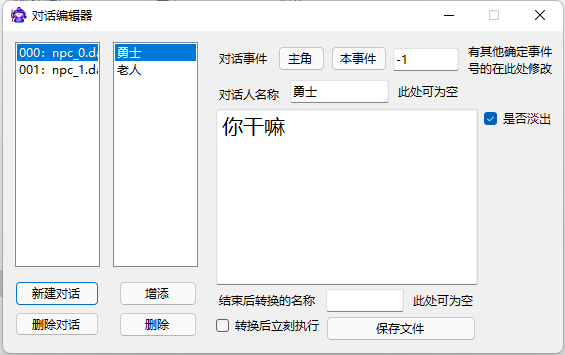
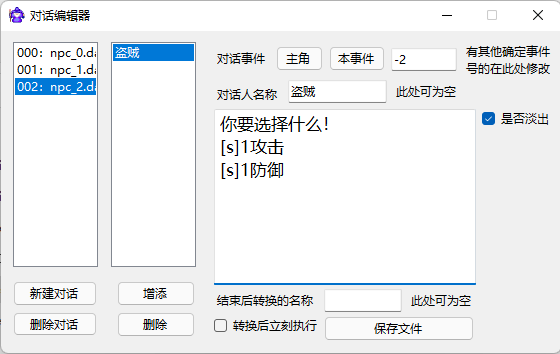
update

diff --git a/docs/source/tool&data/tools.rst b/docs/source/tool&data/tools.rst
@@ -8,21 +8,16 @@
 可视化地图编辑器MapDesigner.exe
 ~~~~~~~~~~~~~~~~~~~~~~~~~~~~~~
 
-.. image:: sample_3.png
+.. image:: sample_1.png
    :align: center
    :alt: 可视化地图编辑器MapDesigner.exe
 
 这里可以对游戏地图进行绘制。
 
-如何创建新地图
--------------
-
-在 ``data\map\`` 处可以看到一个叫做 ``blankmap.dat`` 的文件，这就是空白地图，复制粘贴之后将文件名改为 ``map_x.dat`` 即可，需要注意所有的 ``map_x.dat`` 的 ``x`` 必须连贯且从0开始，否则地图编辑器将无法识别中断处之后的地图。
-
 事件名称介绍
 -----------
 
-.. image:: sample_4.png
+.. image:: sample_2.png
    :align: center
    :alt: 事件名称介绍
 
@@ -107,20 +102,20 @@ NPC的命名方式为 ``npc/x`` ，会自动寻找数据库里的npc数据完成
 行走图
 ------
 
-.. image:: sample_5.png
+.. image:: sample_3.png
    :align: center
    :alt: 行走图
 
 这里决定了事件的行走图以及在行走图上对应的位置，行走图素材严格按照128*128的标准，在区域内按下鼠标右键可以选择图片，按下鼠标左键可以选择位置。
 
-.. image:: sample_6.png
+.. image:: sample_4.png
    :align: center
    :alt: 选择图片
 
 出现触发判定
 -----------
 
-.. image:: sample_7.png
+.. image:: sample_5.png
    :align: center
    :alt: 出现触发判定
 
@@ -146,7 +141,7 @@ NPC的命名方式为 ``npc/x`` ，会自动寻找数据库里的npc数据完成
 地图名
 ^^^^^^
 
-.. image:: sample_8.png
+.. image:: sample_6.png
    :align: center
    :alt: 地图名
 
@@ -157,7 +152,7 @@ NPC的命名方式为 ``npc/x`` ，会自动寻找数据库里的npc数据完成
 地图BGM
 ^^^^^^^
 
-.. image:: sample_9.png
+.. image:: sample_7.png
    :align: center
    :alt: 地图BGM
 
@@ -166,7 +161,7 @@ NPC的命名方式为 ``npc/x`` ，会自动寻找数据库里的npc数据完成
 动效
 ^^^^
 
-.. image:: sample_10.gif
+.. image:: sample_8.gif
    :align: center
    :alt: 动效
 
@@ -175,7 +170,7 @@ NPC的命名方式为 ``npc/x`` ，会自动寻找数据库里的npc数据完成
 穿透
 ^^^^
 
-.. image:: sample_11.png
+.. image:: sample_9.png
    :align: center
    :alt: 穿透
 
@@ -184,7 +179,7 @@ NPC的命名方式为 ``npc/x`` ，会自动寻找数据库里的npc数据完成
 隐藏信息
 ^^^^^^^^
 
-.. image:: sample_12.gif
+.. image:: sample_10.gif
    :align: center
    :alt: 隐藏信息
 
@@ -193,7 +188,7 @@ NPC的命名方式为 ``npc/x`` ，会自动寻找数据库里的npc数据完成
 匹配图像
 ^^^^^^^
 
-.. image:: sample_13.gif
+.. image:: sample_11.gif
    :align: center
    :alt: 匹配图像
 
@@ -205,7 +200,7 @@ NPC的命名方式为 ``npc/x`` ，会自动寻找数据库里的npc数据完成
 添加
 ^^^^
 
-.. image:: sample_14.gif
+.. image:: sample_12.gif
    :align: center
    :alt: 添加
 
@@ -214,7 +209,7 @@ NPC的命名方式为 ``npc/x`` ，会自动寻找数据库里的npc数据完成
 复制
 ^^^^
 
-.. image:: sample_15.gif
+.. image:: sample_13.gif
    :align: center
    :alt: 复制
 
@@ -223,7 +218,7 @@ NPC的命名方式为 ``npc/x`` ，会自动寻找数据库里的npc数据完成
 删除
 ^^^^
 
-.. image:: sample_16.gif
+.. image:: sample_14.gif
    :align: center
    :alt: 删除
 
@@ -232,7 +227,7 @@ NPC的命名方式为 ``npc/x`` ，会自动寻找数据库里的npc数据完成
 移动
 ^^^^
 
-.. image:: sample_17.gif
+.. image:: sample_15.gif
    :align: center
    :alt: 移动
 
@@ -241,7 +236,7 @@ NPC的命名方式为 ``npc/x`` ，会自动寻找数据库里的npc数据完成
 覆盖
 ^^^^
 
-.. image:: sample_18.gif
+.. image:: sample_16.gif
    :align: center
    :alt: 覆盖
 
@@ -250,18 +245,37 @@ NPC的命名方式为 ``npc/x`` ，会自动寻找数据库里的npc数据完成
 保存
 ^^^^
 
-.. image:: sample_19.png
+.. image:: sample_17.png
    :align: center
    :alt: 保存
 
 会保存当前页面的地图，保存成功后会弹出一个窗口，是本地图所有信息的一个列表。
+
+新增地图 & 设为空白地图
+^^^^^^^^^^^^^^^^^^^^^^
+
+最新一期新增内容
+
+.. image:: sample_18.png
+   :align: center
+   :alt: 新增地图&设为空白地图
+
+新增地图
+""""""""
+
+会在列表中新增一个地图，默认按照当前的空白地图模板 ``blankmap.dat`` 进行初始化。
+
+设为空白地图
+"""""""""""""
+
+会将当前地图的信息整合起来存入 ``blankmap.dat`` 。
 
 动画编辑器AnimationDesigner.exe
 ~~~~~~~~~~~~~~~~~~~~~~~~~~~~~~~
 
 这里可以对游戏动画进行绘制，支持的动画 **单个图片** 规格的动画素材（需要是透明底图）。
 
-.. image:: sample_20.png
+.. image:: sample_19.png
    :align: center
    :alt: 保存
 
@@ -272,7 +286,7 @@ RMXP动画素材分离器AnimationSeparator.exe
 
 这里可以对RMXP规格的动画素材分离成若干192 * 192的素材，并保存在原路径中。
 
-.. image:: sample_21.png
+.. image:: sample_20.png
    :align: center
    :alt: 保存
 
@@ -285,7 +299,7 @@ NPC对话编辑器NPCDesigner.exe
 
 这里可以对游戏内NPC的对话内容进行设置。
 
-.. image:: sample_22.png
+.. image:: sample_21.png
    :align: center
    :alt: 保存
 
@@ -298,6 +312,10 @@ NPC对话编辑器NPCDesigner.exe
 ^^^^^^^^^^^^^^^
 
 选择项单起一行，在最前面加上 ``[s]`` ，代码就会识别出来这是选择项了，并且会出现光标矩形。
+
+.. image:: sample_22.png
+   :align: center
+   :alt: 添加选择项
 
 例如：
 
@@ -313,6 +331,10 @@ NPC对话编辑器NPCDesigner.exe
 
 本框架所有事件指令均依托于事件名，在选择项内容描述完之后加上 ``=>`` ，然后写上需要执行的事件名，之后就会创建一个“临时事件”并执行相关指令。
 
+.. image:: sample_23.png
+   :align: center
+   :alt: 选择项指令
+
 例如：
 
 .. code-block:: cpp
@@ -321,6 +343,13 @@ NPC对话编辑器NPCDesigner.exe
     你好，你要选择什么？
     [s]1攻击=>bonus/1/2
     [s]1防御=>bonus/2/2
+
+
+演示效果如下：
+
+.. image:: sample_24.png
+   :align: center
+   :alt: 演示
 
 何谓全角字符和半角字符？
 ^^^^^^^^^^^^^^^^^^^^^^
@@ -347,13 +376,13 @@ NPC对话编辑器NPCDesigner.exe
 
 在对话中插入 ``x`` 号变量的方法为写成 ``[x]`` ，代码会自动识别半角方括号里的内容，并读取当前变量的值进行替换。
 
-.. image:: sample_23.png
+.. image:: sample_24.png
    :align: center
    :alt: 插入变量
 
 效果演示如下：
 
-.. image:: sample_24.png
+.. image:: sample_25.png
    :align: center
    :alt: 插入变量演示
 
@@ -362,7 +391,7 @@ NPC对话编辑器NPCDesigner.exe
 
 这里可以对游戏内怪物的能力以及属性进行设置。
 
-.. image:: sample_25.png
+.. image:: sample_26.png
    :align: center
    :alt: 怪物编辑器
 

diff --git a/docs/source/inner/data_structures.rst b/docs/source/inner/data_structures.rst
@@ -32,12 +32,14 @@ GameEvent
 构造函数
 ^^^^^^^
 
-GameEvent(ex,ey)，可以初始化对象的初始xy坐标。
+GameEvent(name,x=0,y=0)，可以初始化对象的事件名和初始xy坐标。
 
-order()
-^^^^^^^
+order(tempEV=false)
+^^^^^^^^^^^^^^^^^^^
 
-一切事件指令的存储。
+一切事件指令的存储， ``tempEV`` 用来判断是否是临时事件，决定是否将事件ID传入 ``motaTemp.functionEventID`` 。
+
+如果要执行一个临时事件指令，可以用 ``GameEvent(evname).order(true)`` 来执行。
 
 endEvent()
 ^^^^^^^^^^^
@@ -347,22 +349,26 @@ init()
 
 初始化函数，会将角色数据从 ``motaData.actors`` 中读取。
 
-loadMap(mapID)
+loadMap(mapID,*gmap)
 ^^^^^^^^^^^^^^^
 
-读取地图的函数，会从 ``motaData.maps`` 中读取地图文件数据并根据当前的 ``motaVariables`` 更改地图样式。
+读取地图的函数， ``gmap`` 一般来说是 ``screenData.visualMap`` ，不过你也可以从 ``motaData.maps`` 中读取其他地图文件数据并用这个函数读取。
 
 mapStatus()
 ^^^^^^^^^^^
 
 显示游戏状态栏的函数，状态栏的DIY在此处修改。
 
-showMap(gmap,x,y)
+showMap(gmap,x,y,rate=1.f,visible=true,clear_device=true)
 ^^^^^^^^^^^^^^^^^^^
 
 在画面的(x,y)处显示地图 ``gmap`` 的函数，作用和 ``motaGraphics.update()`` 相当，游戏中的动画也在此处显示，在遍历事件处有地图显示伤害的配置，可在此处自行修改。
 
-此外，还可以在最后插一个 ``float`` 类型的变量 ``rate`` ，代表地图的放缩率，缺省值为1。
+``rate`` 代表地图的放缩率。
+
+``visible`` 代表在地图上主角的行走图是否可见。
+
+``clear_device`` 代表是否清空画面，如果是新开一个窗口预览地图，需要设置为 ``false`` 。
 
 waitCount(times)
 ^^^^^^^^^^^^^^^^

diff --git a/docs/source/inner/functions.rst b/docs/source/inner/functions.rst
@@ -160,7 +160,7 @@ drawImage(file,x,y,rect,opacity)
 
 此重载的 ``file`` ,``x`` ,``y`` ,``opacity`` 和上面一致。
 
-.. image:: sample_26.png
+.. image:: sample_1.png
    :align: center
    :alt: 矩形演示
 
